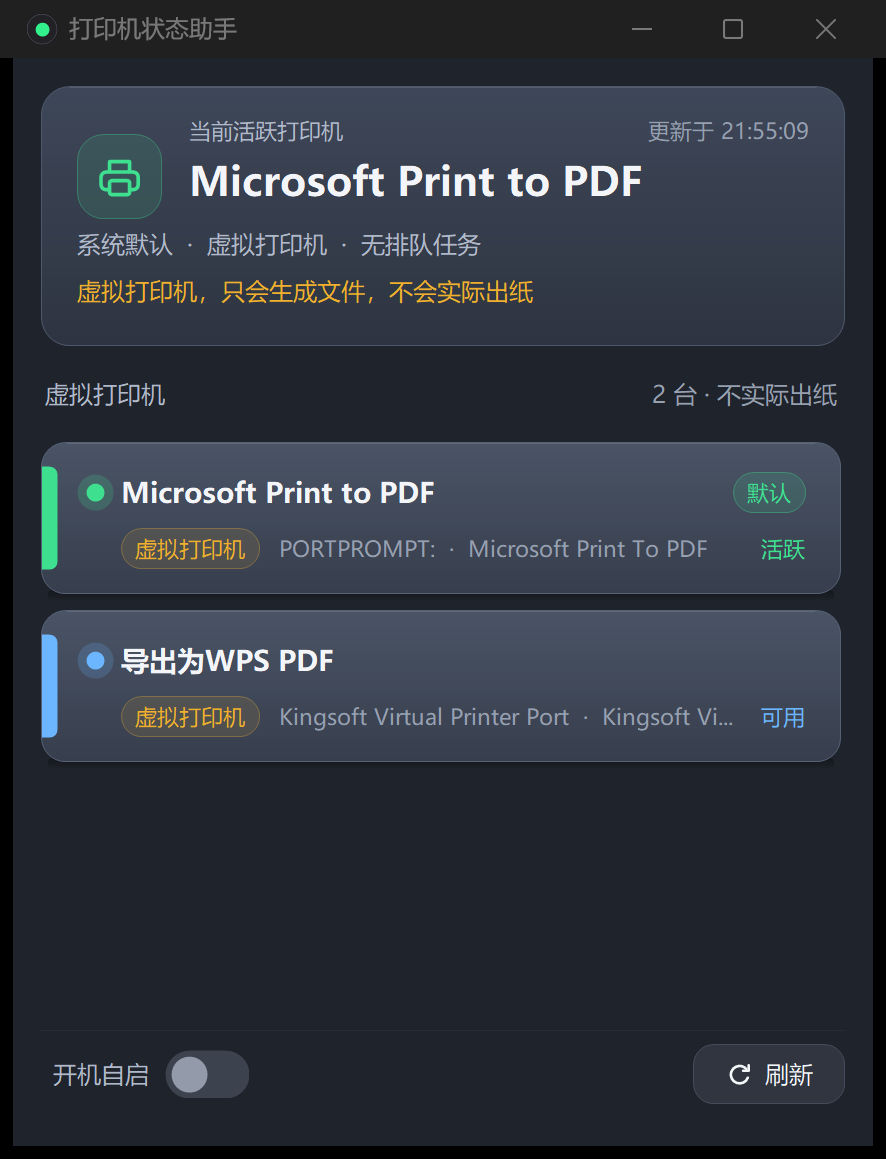
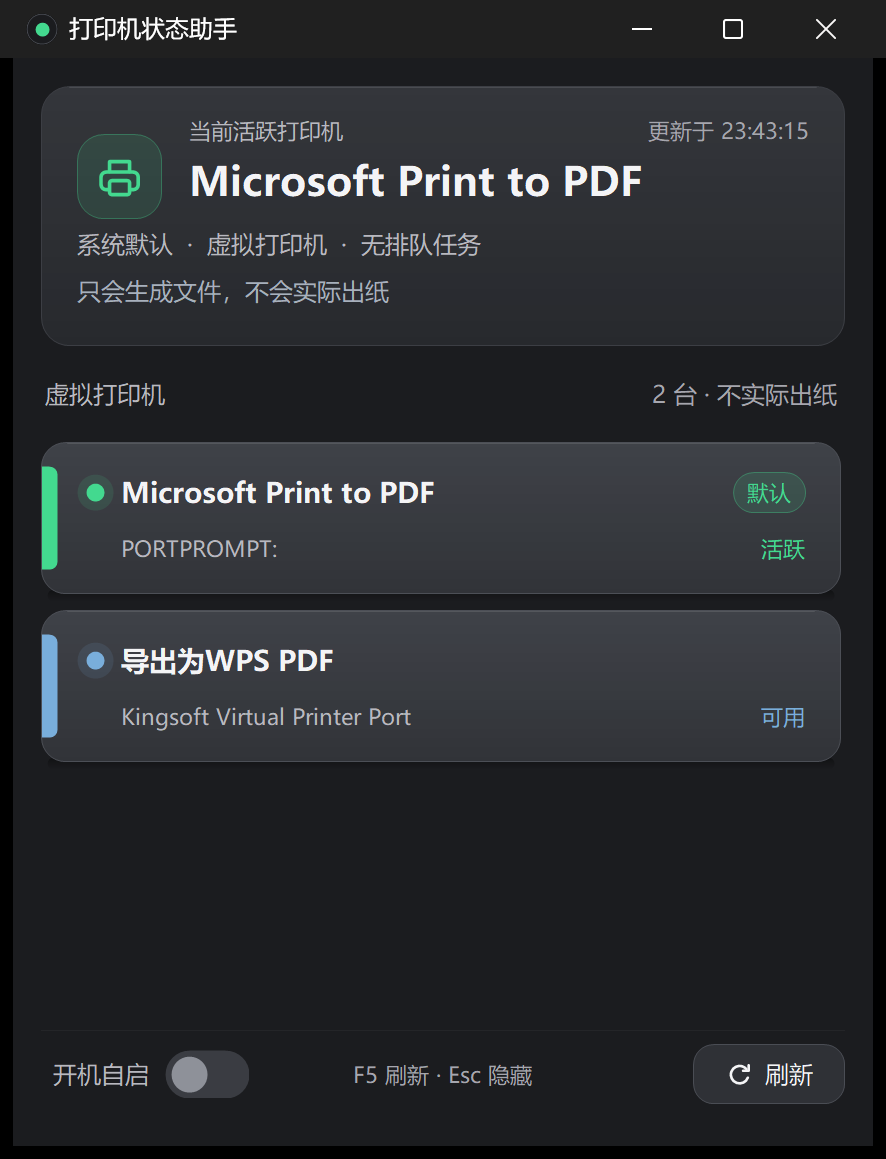
style: 改用中性石墨配色并精简卡片信息
- 配色切换为中性灰调：背景 #1B1C1F、卡片 #3F4248 → #313338
- 移除卡片上的「虚拟打印机」标签，第二行只显示端口与状态，驱动移入 ToolTip
- 虚拟打印机说明改用中性信息色，不再与离线告警同色
- 次要文字提亮、状态灯光晕减弱、刷新按钮对比度提高
- 底栏增加「F5 刷新 · Esc 隐藏」提示
- 同步托盘图标配色、README 与界面截图

diff --git a/Theme.cs b/Theme.cs
@@ -6,48 +6,49 @@ using System.Windows.Forms;
 
 namespace PrinterMonitor
 {
-    /// <summary>提亮深色配色 + 高 DPI 缩放。所有界面尺寸按 96 DPI 的设计值书写，绘制时统一乘以 Scale。</summary>
+    /// <summary>中性深色配色 + 高 DPI 缩放。所有界面尺寸按 96 DPI 的设计值书写，绘制时统一乘以 Scale。</summary>
     internal static class Theme
     {
         // 背景与容器
-        public static readonly Color Bg = Color.FromArgb(31, 35, 43);
-        public static readonly Color HeroCard = Color.FromArgb(62, 71, 89);
-        public static readonly Color HeroCardEnd = Color.FromArgb(46, 52, 64);
-        public static readonly Color Card = Color.FromArgb(74, 84, 102);
-        public static readonly Color CardEnd = Color.FromArgb(55, 62, 77);
-        public static readonly Color CardHover = Color.FromArgb(90, 101, 121);
-        public static readonly Color CardHoverEnd = Color.FromArgb(68, 76, 92);
-        public static readonly Color Border = Color.FromArgb(86, 97, 118);
-        public static readonly Color HeroBorder = Color.FromArgb(78, 88, 108);
-        public static readonly Color BorderStrong = Color.FromArgb(116, 128, 148);
-        public static readonly Color Divider = Color.FromArgb(39, 44, 53);
+        public static readonly Color Bg = Color.FromArgb(27, 28, 31);
+        public static readonly Color HeroCard = Color.FromArgb(52, 54, 59);
+        public static readonly Color HeroCardEnd = Color.FromArgb(39, 41, 45);
+        public static readonly Color Card = Color.FromArgb(63, 66, 72);
+        public static readonly Color CardEnd = Color.FromArgb(49, 51, 56);
+        public static readonly Color CardHover = Color.FromArgb(74, 77, 84);
+        public static readonly Color CardHoverEnd = Color.FromArgb(58, 61, 67);
+        public static readonly Color Border = Color.FromArgb(76, 79, 86);
+        public static readonly Color HeroBorder = Color.FromArgb(60, 62, 68);
+        public static readonly Color BorderStrong = Color.FromArgb(92, 96, 104);
+        public static readonly Color Divider = Color.FromArgb(36, 37, 40);
 
         // 文字
-        public static readonly Color Text = Color.FromArgb(243, 245, 249);
-        public static readonly Color TextMuted = Color.FromArgb(176, 185, 202);
-        public static readonly Color TextDim = Color.FromArgb(150, 160, 177);
+        public static readonly Color Text = Color.FromArgb(244, 244, 246);
+        public static readonly Color TextMuted = Color.FromArgb(184, 184, 191);
+        public static readonly Color TextDim = Color.FromArgb(166, 166, 174);
+        public static readonly Color Info = Color.FromArgb(167, 176, 188);
 
         // 状态色
-        public static readonly Color Green = Color.FromArgb(62, 224, 143);
-        public static readonly Color Yellow = Color.FromArgb(240, 176, 46);
-        public static readonly Color Blue = Color.FromArgb(107, 182, 255);
-        public static readonly Color Gray = Color.FromArgb(139, 148, 166);
-        public static readonly Color Red = Color.FromArgb(240, 96, 79);
+        public static readonly Color Green = Color.FromArgb(67, 217, 143);
+        public static readonly Color Yellow = Color.FromArgb(227, 177, 74);
+        public static readonly Color Blue = Color.FromArgb(121, 174, 219);
+        public static readonly Color Gray = Color.FromArgb(154, 154, 162);
+        public static readonly Color Red = Color.FromArgb(228, 106, 88);
 
         // 自绘按钮与开关
-        public static readonly Color BtnFill = Color.FromArgb(48, 53, 63);
-        public static readonly Color BtnBorder = Color.FromArgb(68, 75, 90);
-        public static readonly Color BtnHover = Color.FromArgb(58, 64, 76);
-        public static readonly Color BtnDown = Color.FromArgb(43, 48, 58);
-        public static readonly Color BtnDisabledFill = Color.FromArgb(43, 48, 58);
-        public static readonly Color BtnDisabledBorder = Color.FromArgb(58, 64, 77);
-        public static readonly Color BtnDisabledText = Color.FromArgb(113, 121, 138);
-        public static readonly Color SwitchOff = Color.FromArgb(60, 66, 78);
-        public static readonly Color SwitchKnobOff = Color.FromArgb(147, 155, 171);
+        public static readonly Color BtnFill = Color.FromArgb(47, 49, 54);
+        public static readonly Color BtnBorder = Color.FromArgb(74, 77, 84);
+        public static readonly Color BtnHover = Color.FromArgb(54, 57, 63);
+        public static readonly Color BtnDown = Color.FromArgb(42, 44, 48);
+        public static readonly Color BtnDisabledFill = Color.FromArgb(42, 44, 48);
+        public static readonly Color BtnDisabledBorder = Color.FromArgb(60, 62, 68);
+        public static readonly Color BtnDisabledText = Color.FromArgb(110, 112, 120);
+        public static readonly Color SwitchOff = Color.FromArgb(58, 60, 66);
+        public static readonly Color SwitchKnobOff = Color.FromArgb(142, 145, 153);
         public static readonly Color SwitchKnobOn = Color.FromArgb(255, 255, 255);
 
-        /// <summary>卡片顶部内高光的透明度（约 12.5%）。</summary>
-        private const int SheenAlpha = 32;
+        /// <summary>卡片顶部内高光的透明度（约 11%）。</summary>
+        private const int SheenAlpha = 28;
 
         private static float _scale = 1f;
 
@@ -106,6 +107,7 @@ namespace PrinterMonitor
         private static Font _fCardName;
         private static Font _fPill;
         private static Font _fSection;
+        private static Font _fFootHint;
 
         public static Font HeroLabel
         {
@@ -135,6 +137,11 @@ namespace PrinterMonitor
         public static Font Section
         {
             get { if (_fSection == null) _fSection = FontAt(12, FontStyle.Regular); return _fSection; }
+        }
+
+        public static Font FootHint
+        {
+            get { if (_fFootHint == null) _fFootHint = FontAt(11, FontStyle.Regular); return _fFootHint; }
         }
 
         public static Color StateColor(PrinterState state)
@@ -297,7 +304,7 @@ namespace PrinterMonitor
                 return;
             }
             int glow = dotRadius * 2;
-            using (SolidBrush brush = new SolidBrush(Color.FromArgb(48, color)))
+            using (SolidBrush brush = new SolidBrush(Color.FromArgb(30, color)))
                 g.FillEllipse(brush, new Rectangle(centerX - glow, centerY - glow, glow * 2, glow * 2));
             using (SolidBrush brush = new SolidBrush(color))
                 g.FillEllipse(brush, new Rectangle(centerX - dotRadius, centerY - dotRadius, dotRadius * 2, dotRadius * 2));

diff --git a/Controls.cs b/Controls.cs
@@ -314,8 +314,8 @@ namespace PrinterMonitor
                 }
                 else if (Current.IsVirtual)
                 {
-                    warn = "虚拟打印机，只会生成文件，不会实际出纸";
-                    warnColor = Theme.Yellow;
+                    warn = "只会生成文件，不会实际出纸";
+                    warnColor = Theme.Info;
                 }
                 else if (Current.State == PrinterState.Error)
                 {
@@ -479,33 +479,16 @@ namespace PrinterMonitor
             Theme.DrawText(g, Info.Name, _fName, nameRect, Info.IsUsable ? Theme.Text : Theme.TextMuted,
                 TextFormatFlags.Left);
 
-            // ---- 第二行：连接方式 + 细节 + 状态文案
-            int row2Center = Theme.Px(53);
-            int detailLeft = Theme.Px(40);
-
-            if (Info.IsVirtual)
-            {
-                int pillW = Theme.DrawPillAt(g, detailLeft, row2Center, "虚拟打印机", _fPill,
-                    Theme.Yellow, Color.FromArgb(87, Theme.Yellow), Color.FromArgb(28, Theme.Yellow));
-                detailLeft = detailLeft + pillW + Theme.Px(10);
-            }
-            else
-            {
-                string kind = Info.KindText;
-                int kindW = Theme.MeasureWidth(g, kind, _fSub);
-                Rectangle kindRect = new Rectangle(detailLeft, Theme.Px(43), kindW + Theme.Px(2), Theme.Px(20));
-                Theme.DrawText(g, kind, _fSub, kindRect, Theme.TextMuted, TextFormatFlags.Left);
-                detailLeft = detailLeft + kindW + Theme.Px(10);
-            }
-
+            // ---- 第二行：端口 + 状态文案（驱动信息保留在 ToolTip 中）
             string stateText = Info.StateText;
             int stateW = Theme.MeasureWidth(g, stateText, _fSub);
             Rectangle stateRect = new Rectangle(textRight - stateW - Theme.Px(2), Theme.Px(43), stateW + Theme.Px(2), Theme.Px(20));
             Theme.DrawText(g, stateText, _fSub, stateRect, stateColor, TextFormatFlags.Right);
 
-            Rectangle detailRect = new Rectangle(detailLeft, Theme.Px(43),
-                Math.Max(Theme.Px(20), stateRect.X - detailLeft - Theme.Px(10)), Theme.Px(20));
-            Theme.DrawText(g, Info.DetailText, _fSub, detailRect, Theme.TextDim, TextFormatFlags.Left);
+            string port = string.IsNullOrEmpty(Info.PortName) ? "未知端口" : Info.PortName;
+            Rectangle portRect = new Rectangle(Theme.Px(40), Theme.Px(43),
+                Math.Max(Theme.Px(20), stateRect.X - Theme.Px(40) - Theme.Px(10)), Theme.Px(20));
+            Theme.DrawText(g, port, _fSub, portRect, Theme.TextMuted, TextFormatFlags.Left);
         }
     }
 }

diff --git a/Program.cs b/Program.cs
@@ -95,12 +95,12 @@ namespace PrinterMonitor
                 {
                     g.SmoothingMode = SmoothingMode.AntiAlias;
                     g.Clear(Color.Transparent);
-                    using (SolidBrush bg = new SolidBrush(Color.FromArgb(255, 33, 33, 38)))
+                    using (SolidBrush bg = new SolidBrush(Color.FromArgb(255, 27, 28, 31)))
                         g.FillEllipse(bg, 0, 0, size - 1, size - 1);
-                    using (SolidBrush ring = new SolidBrush(Color.FromArgb(255, 70, 70, 80)))
+                    using (SolidBrush ring = new SolidBrush(Color.FromArgb(255, 72, 75, 82)))
                     using (Pen ringPen = new Pen(ring, 1f))
                         g.DrawEllipse(ringPen, 0.5f, 0.5f, size - 2f, size - 2f);
-                    using (SolidBrush fg = new SolidBrush(Color.FromArgb(255, 50, 240, 140)))
+                    using (SolidBrush fg = new SolidBrush(Color.FromArgb(255, 67, 217, 143)))
                         g.FillEllipse(fg, 9f, 9f, 14f, 14f);
                 }
                 IntPtr handle = bmp.GetHicon();

diff --git a/PrinterService.cs b/PrinterService.cs
@@ -87,18 +87,6 @@ namespace PrinterMonitor
             }
         }
 
-        /// <summary>第二行左侧的连接细节。</summary>
-        public string DetailText
-        {
-            get
-            {
-                string port = string.IsNullOrEmpty(PortName) ? "未知端口" : PortName;
-                string driver = DriverName == null ? "" : DriverName.Trim();
-                if (driver.Length == 0) return port;
-                return port + "  ·  " + driver;
-            }
-        }
-
         /// <summary>列表里名称过长会截断，悬浮提示给出完整信息。</summary>
         public string TooltipText
         {

diff --git a/MainForm.cs b/MainForm.cs
@@ -73,6 +73,8 @@ namespace PrinterMonitor
             {
                 using (Pen pen = new Pen(Theme.Divider, 1f))
                     e.Graphics.DrawLine(pen, 0, 0, _bottom.Width, 0);
+                TextRenderer.DrawText(e.Graphics, "F5 刷新 · Esc 隐藏", Theme.FootHint, _bottom.ClientRectangle,
+                    Theme.TextDim, TextFormatFlags.HorizontalCenter | TextFormatFlags.VerticalCenter | TextFormatFlags.NoPadding);
             };
 
             _btnRefresh = new SoftButton();

diff --git a/README.md b/README.md
@@ -15,7 +15,7 @@ Windows 11 桌面小工具：一眼看清所有打印机的实时状态。托盘
 - **托盘常驻**：单击或双击托盘图标开窗；托盘悬停显示当前默认打印机；菜单含显示主窗口 / 立即刷新 / 开机自启 / 退出
 - **自动刷新**：窗口可见时每 3 秒扫描一次，隐藏到托盘后降为每 10 秒；内容无变化时跳过重绘
 - **快捷键**：`F5` 立即刷新，`Esc` 隐藏到托盘
-- **高分屏适配**：声明系统 DPI 感知，初始化时按系统 DPI 换算全部尺寸与字号（本机 4K@200% 下实测按 2 倍布局，文字锐利）；提亮深色主题，卡片带渐变、投影与状态色竖条
+- **高分屏适配**：声明系统 DPI 感知，初始化时按系统 DPI 换算全部尺寸与字号（本机 4K@200% 下实测按 2 倍布局，文字锐利）；中性深色主题，卡片带渐变、投影与状态色竖条
 - **零依赖免安装**：产物为单个 exe，无需安装 .NET SDK 或任何运行库，也不依赖 WMI 服务
 
 ## 运行环境
@@ -80,7 +80,7 @@ build.bat
 
 - 顶部大卡显示当前活跃设备，左侧图标块的颜色随状态变化（绿 / 黄 / 蓝 / 红 / 灰）
 - 打印机卡片采用竖向渐变 + 顶部内高光营造浮起感，下沿带柔和投影（悬停时加深）
-- 卡片左缘的状态色胶囊色块与状态灯同色，便于快速扫视
+- 卡片左缘的状态色胶囊色块与状态灯同色，便于快速扫视；卡片只显示端口与状态，完整驱动信息在悬浮提示中
 - 底部只保留「刷新」按钮与「开机自启」开关，均为自绘控件；卡片仅作状态展示，不可点选
 
 ## 项目结构
